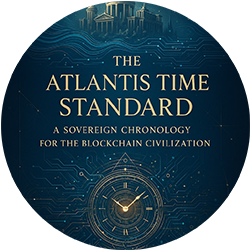
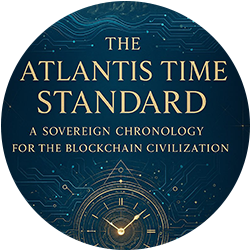
Replace AtlantisTime image asset in index.html with new time-30.png

diff --git a/index.html b/index.html
@@ -105,7 +105,7 @@
             </button>
 
             <button class="btn" onclick="window.open('https://www.amazon.com/dp/B0F54KZ7PQ', '_blank')">
-                <img src="Asset/Atlantistime.png" class="btn-icon no-interaction" draggable="false">
+                <img src="Asset/time-30.png" class="btn-icon no-interaction" draggable="false">
                 AtlantisTime
             </button>
 
